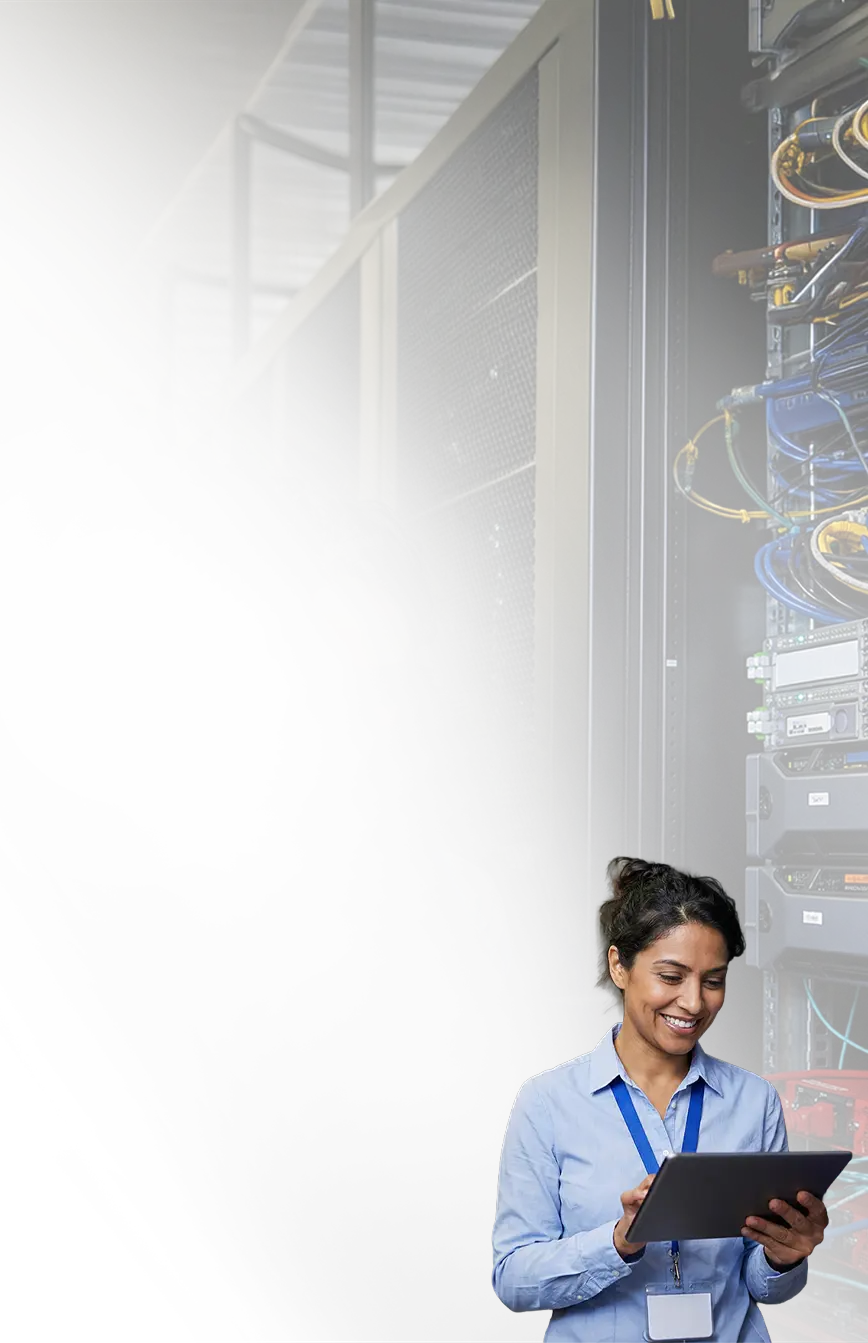
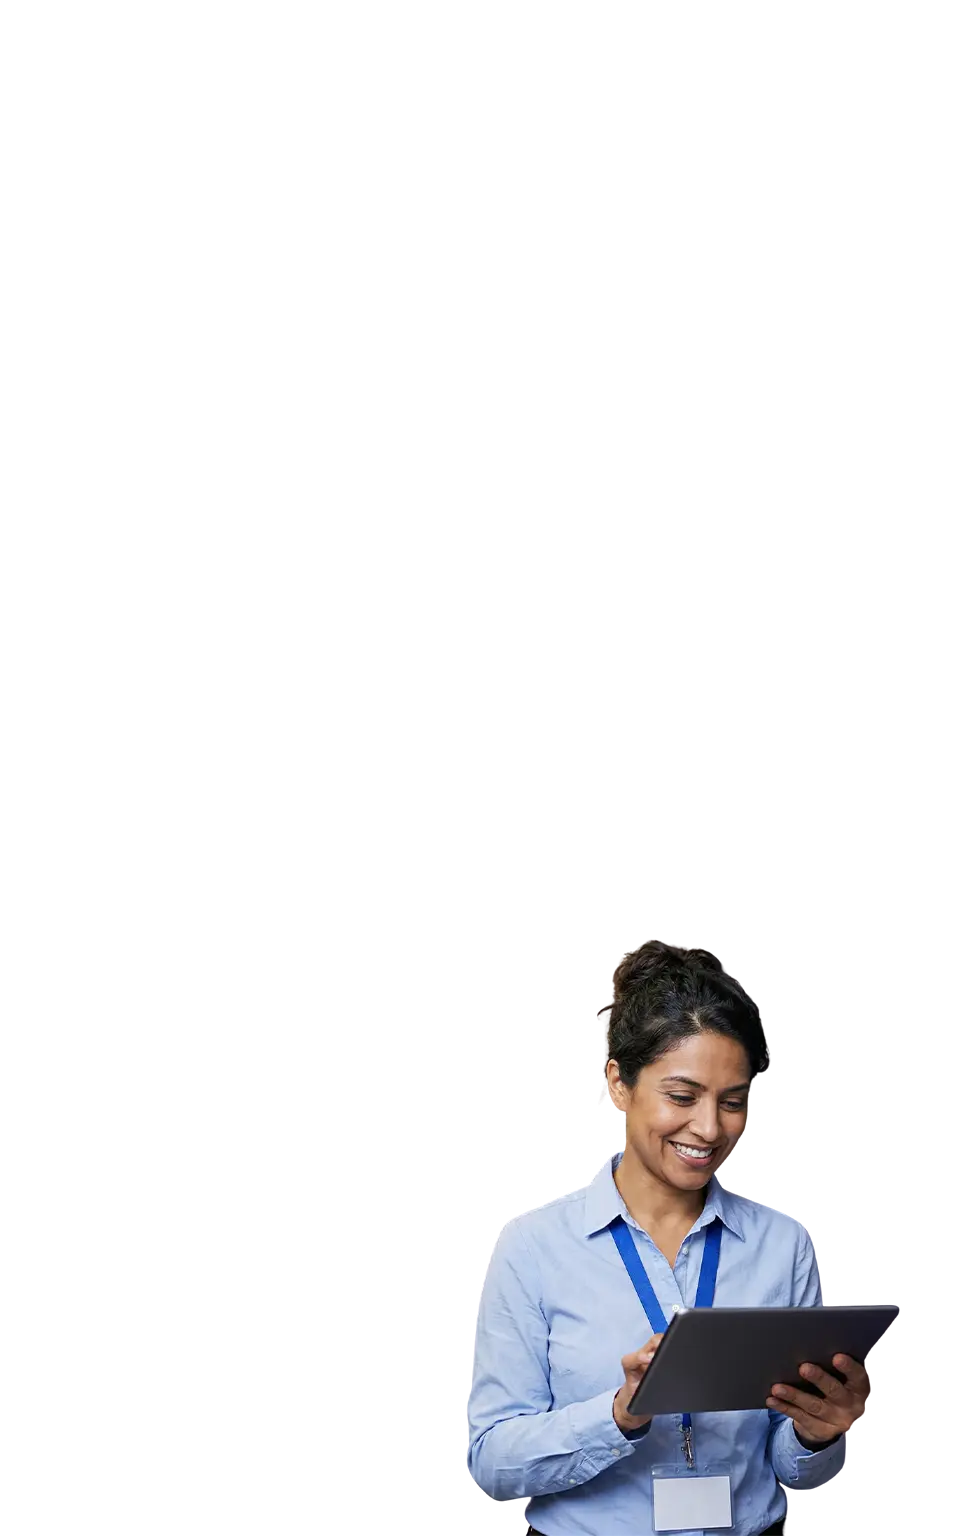
style: Adjust hero section background position and remove outdated mobile background image.

diff --git a/style.css b/style.css
@@ -128,7 +128,7 @@ body {
 
 @media (min-width: 1024px) {
     .hero-section {
-        background-position: top -150px right 0%;
+        background-position: top -100px right -90px;
     }
 
     .hero-content {
